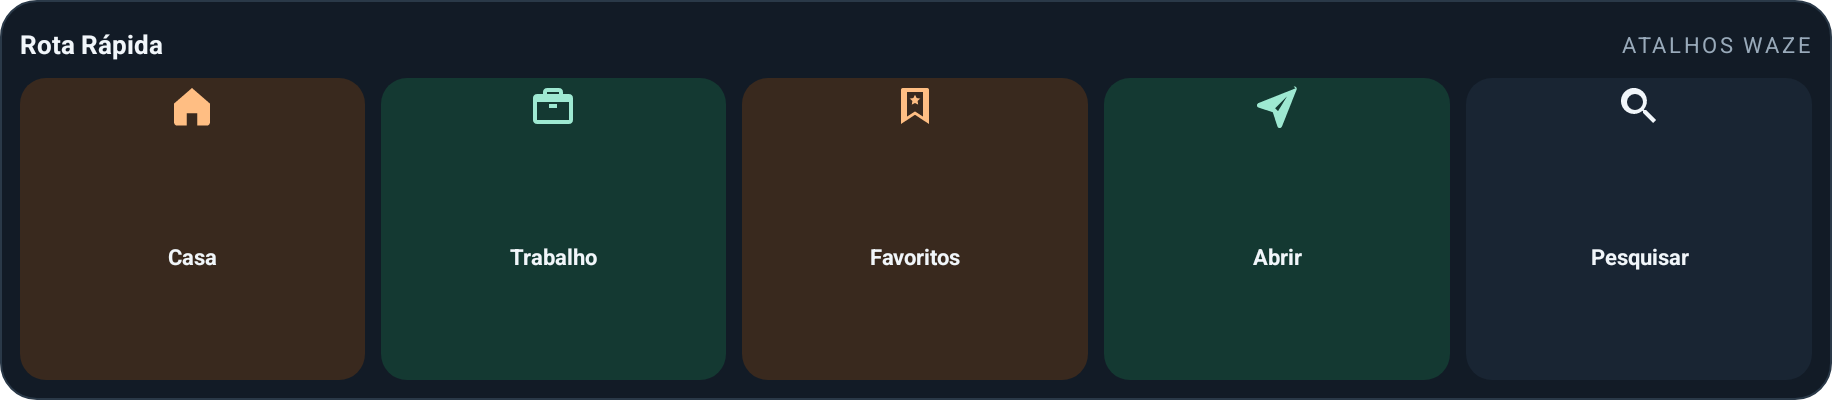
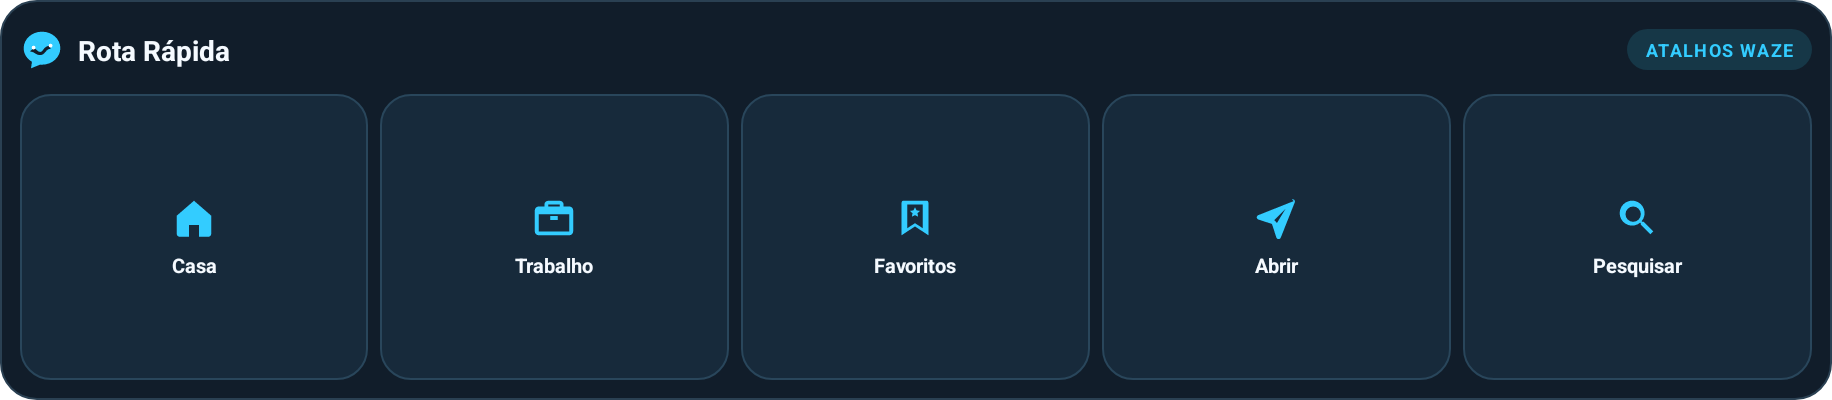
Polish Waze-inspired widget branding v1.0.1

diff --git a/app/src/main/java/pt/rotarapida/waze/MainActivity.java b/app/src/main/java/pt/rotarapida/waze/MainActivity.java
@@ -24,7 +24,7 @@ public final class MainActivity extends Activity {
     private static final int STROKE = Color.rgb(42, 57, 72);
     private static final int TEXT = Color.rgb(241, 246, 250);
     private static final int MUTED = Color.rgb(153, 170, 186);
-    private static final int MINT = Color.rgb(158, 233, 210);
+    private static final int MINT = Color.rgb(51, 204, 255);
     private static final int AMBER = Color.rgb(255, 190, 131);
     private TextView status;
     private TextView statusDetail;
@@ -115,7 +115,7 @@ public final class MainActivity extends Activity {
         LinearLayout header = new LinearLayout(this);
         header.setGravity(Gravity.CENTER_VERTICAL);
         android.widget.ImageView mark = new android.widget.ImageView(this);
-        mark.setBackground(makeShape(MINT, STROKE, 17));
+        mark.setBackground(makeShape(Color.rgb(22, 55, 71), Color.rgb(42, 70, 91), 17));
         mark.setImageResource(R.drawable.ic_route_mark);
         mark.setPadding(dp(10), dp(10), dp(10), dp(10));
         header.addView(mark, new LinearLayout.LayoutParams(dp(48), dp(48)));
@@ -125,9 +125,9 @@ public final class MainActivity extends Activity {
         names.addView(text(getString(R.string.app_name), 21, TEXT, true));
         names.addView(text(getString(R.string.header_subtitle), 12, MUTED, false));
         header.addView(names, new LinearLayout.LayoutParams(0, -2, 1));
-        TextView version = text("V1.0", 11, MINT, true);
+        TextView version = text("V1.0.1", 11, MINT, true);
         version.setGravity(Gravity.CENTER);
-        version.setBackground(makeShape(0xff142a29, 0xff224442, 30));
+        version.setBackground(makeShape(0xff163747, 0xff29465b, 30));
         version.setPadding(dp(12), dp(6), dp(12), dp(6));
         header.addView(version);
         return header;
@@ -175,7 +175,7 @@ public final class MainActivity extends Activity {
         LinearLayout destinations = new LinearLayout(this);
         destinations.setOrientation(LinearLayout.HORIZONTAL);
         column.addView(destinations, new LinearLayout.LayoutParams(-1, dp(86)));
-        destinations.addView(actionButton(WazeAction.HOME, R.drawable.ic_home, "Casa", AMBER, false),
+        destinations.addView(actionButton(WazeAction.HOME, R.drawable.ic_home, "Casa", MINT, false),
                 new LinearLayout.LayoutParams(0, -1, 1));
         LinearLayout.LayoutParams workLp = new LinearLayout.LayoutParams(0, -1, 1);
         workLp.leftMargin = dp(10);
@@ -190,7 +190,7 @@ public final class MainActivity extends Activity {
         LinearLayout.LayoutParams favoritesLp = new LinearLayout.LayoutParams(-1, dp(62));
         favoritesLp.topMargin = dp(9);
         column.addView(actionButton(WazeAction.FAVORITES, R.drawable.ic_favorites,
-                "Favoritos do Waze", AMBER, false), favoritesLp);
+                "Favoritos do Waze", MINT, false), favoritesLp);
 
         TextView toolsLabel = sectionLabel(getString(R.string.waze_heading));
         LinearLayout.LayoutParams toolsHeadingLp = new LinearLayout.LayoutParams(-1, dp(28));
@@ -203,7 +203,7 @@ public final class MainActivity extends Activity {
                 new LinearLayout.LayoutParams(0, -1, 1));
         LinearLayout.LayoutParams searchLp = new LinearLayout.LayoutParams(0, -1, 1);
         searchLp.leftMargin = dp(10);
-        utilities.addView(actionButton(WazeAction.SEARCH, R.drawable.ic_search, "Pesquisar", TEXT, false), searchLp);
+        utilities.addView(actionButton(WazeAction.SEARCH, R.drawable.ic_search, "Pesquisar", MINT, false), searchLp);
         return column;
     }
 
@@ -219,8 +219,8 @@ public final class MainActivity extends Activity {
         button.setOrientation(LinearLayout.HORIZONTAL);
         button.setGravity(Gravity.CENTER);
         button.setPadding(dp(10), dp(8), dp(10), dp(8));
-        button.setBackground(makeShape(primary ? 0xff143932 : SURFACE_HI,
-                primary ? 0xff2e655a : STROKE, 15));
+        button.setBackground(makeShape(primary ? 0xff163747 : SURFACE_HI,
+                primary ? 0xff2a7897 : STROKE, 15));
         android.widget.ImageView icon = new android.widget.ImageView(this);
         icon.setImageResource(iconResource);
         icon.setColorFilter(iconColor);

diff --git a/README.md b/README.md
@@ -6,9 +6,11 @@ Widget Android em português para os atalhos Casa, Trabalho, Favoritos, abrir o 
 
 ![Widget Rota Rápida em formato horizontal](docs/screenshots/widget-cropped.png)
 
+O visual atualizado usa cartões uniformes, ícones ciano centrados e uma marca de rota coerente entre o widget, a aplicação e o ícone Android.
+
 ## Usar
 
-1. Instale `dist/Rota-Rapida-1.0.0.apk` e abra Rota Rápida uma vez.
+1. Instale o APK da [versão 1.0.1](https://github.com/LuizPT/rota-rapida-waze-widget/releases/tag/v1.0.1) e abra Rota Rápida uma vez.
 2. Instale o Waze. Os atalhos Casa e Trabalho usam os favoritos guardados na conta Waze.
 3. No Dashline, abra **Settings → Customize home screen**, adicione um widget e escolha **Rota Rápida**. Ajuste o tamanho para mostrar os cinco atalhos.
 
@@ -28,7 +30,7 @@ Requer JDK 17 ou superior e Android SDK Platform 37. O Gradle Wrapper incluído 
 .\gradlew.bat testDebugUnitTest lint assembleDebug assembleRelease
 ```
 
-O APK final está em `dist/Rota-Rapida-1.0.0.apk`. O código de produção e os testes estão em `app/src/`. Para reproduzir a assinatura local do APK, defina `ROTA_RAPIDA_KEYSTORE`, `ROTA_RAPIDA_STORE_PASSWORD`, `ROTA_RAPIDA_KEY_ALIAS` e `ROTA_RAPIDA_KEY_PASSWORD` no ambiente antes de compilar. Neste computador, a chave está fora do projeto em `%LOCALAPPDATA%\RotaRapidaSigning`; a palavra-passe está protegida pelo Windows para a conta atual. A chave privada não está incluída no projeto nem no arquivo de fontes.
+O APK compilado fica em `app/build/outputs/apk/release/app-release.apk`; a versão assinada para instalação está nos [artefactos da versão no GitHub](https://github.com/LuizPT/rota-rapida-waze-widget/releases/tag/v1.0.1). O código de produção e os testes estão em `app/src/`. Para reproduzir a assinatura local do APK, defina `ROTA_RAPIDA_KEYSTORE`, `ROTA_RAPIDA_STORE_PASSWORD`, `ROTA_RAPIDA_KEY_ALIAS` e `ROTA_RAPIDA_KEY_PASSWORD` no ambiente antes de compilar. Neste computador, a chave está fora do projeto em `%LOCALAPPDATA%\RotaRapidaSigning`; a palavra-passe está protegida pelo Windows para a conta atual. A chave privada não está incluída no projeto nem no arquivo de fontes.
 
 ## Artefactos e validação
 

diff --git a/docs/VALIDACAO.md b/docs/VALIDACAO.md
@@ -1,12 +1,13 @@
-# Validação — Rota Rápida 1.0.0
+# Validação — Rota Rápida 1.0.1
 
 ## Compilação e testes
 
 - `testDebugUnitTest`: passou; inclui os links Casa/Trabalho, cinco ações únicas e a escolha do layout do widget.
 - `lint`: passou sem erros.
 - `assembleDebug` e `assembleRelease`: passaram com Android SDK Platform 37.
-- Instalação e arranque do APK debug: verificados no emulador Android API 34, em ecrã horizontal 1920 × 720.
+- Instalação e arranque do APK assinado 1.0.1: verificados no emulador Android API 34, em ecrã horizontal 1920 × 720; o pacote reporta `versionCode 2` e `versionName 1.0.1`.
 - O Android Package Manager reconheceu `QuickActionsWidgetProvider` como fornecedor de widget de ecrã inicial.
+- Os modos compacto e largo foram renderizados e inspecionados no emulador. Ambos apresentam os cinco atalhos com ícones e rótulos centrados, cartões uniformes e a nova marca de navegação ciano.
 - Captura recortada da vista RemoteViews do widget: [widget-cropped.png](screenshots/widget-cropped.png).
 
 ## Limites do ensaio

diff --git a/docs/RELEASE-NOTES-v1.0.1.md b/docs/RELEASE-NOTES-v1.0.1.md
@@ -1,0 +1,10 @@
+# Rota Rápida 1.0.1
+
+Atualização visual do widget e da aplicação com identidade de navegação inspirada na paleta ciano do Waze.
+
+- Corrigido o alinhamento dos ícones e rótulos nos layouts largo e compacto.
+- Uniformizados os cartões do widget, com ícones ciano e marca de rota no cabeçalho.
+- Atualizados o símbolo da aplicação, os botões e a paleta do ecrã inicial.
+- Mantidos os cinco atalhos, incluindo Favoritos, com os mesmos destinos e comportamento.
+
+O botão Favoritos abre o Waze e orienta o utilizador para Guardados; a aplicação Waze não disponibiliza um link público direto para a lista.
